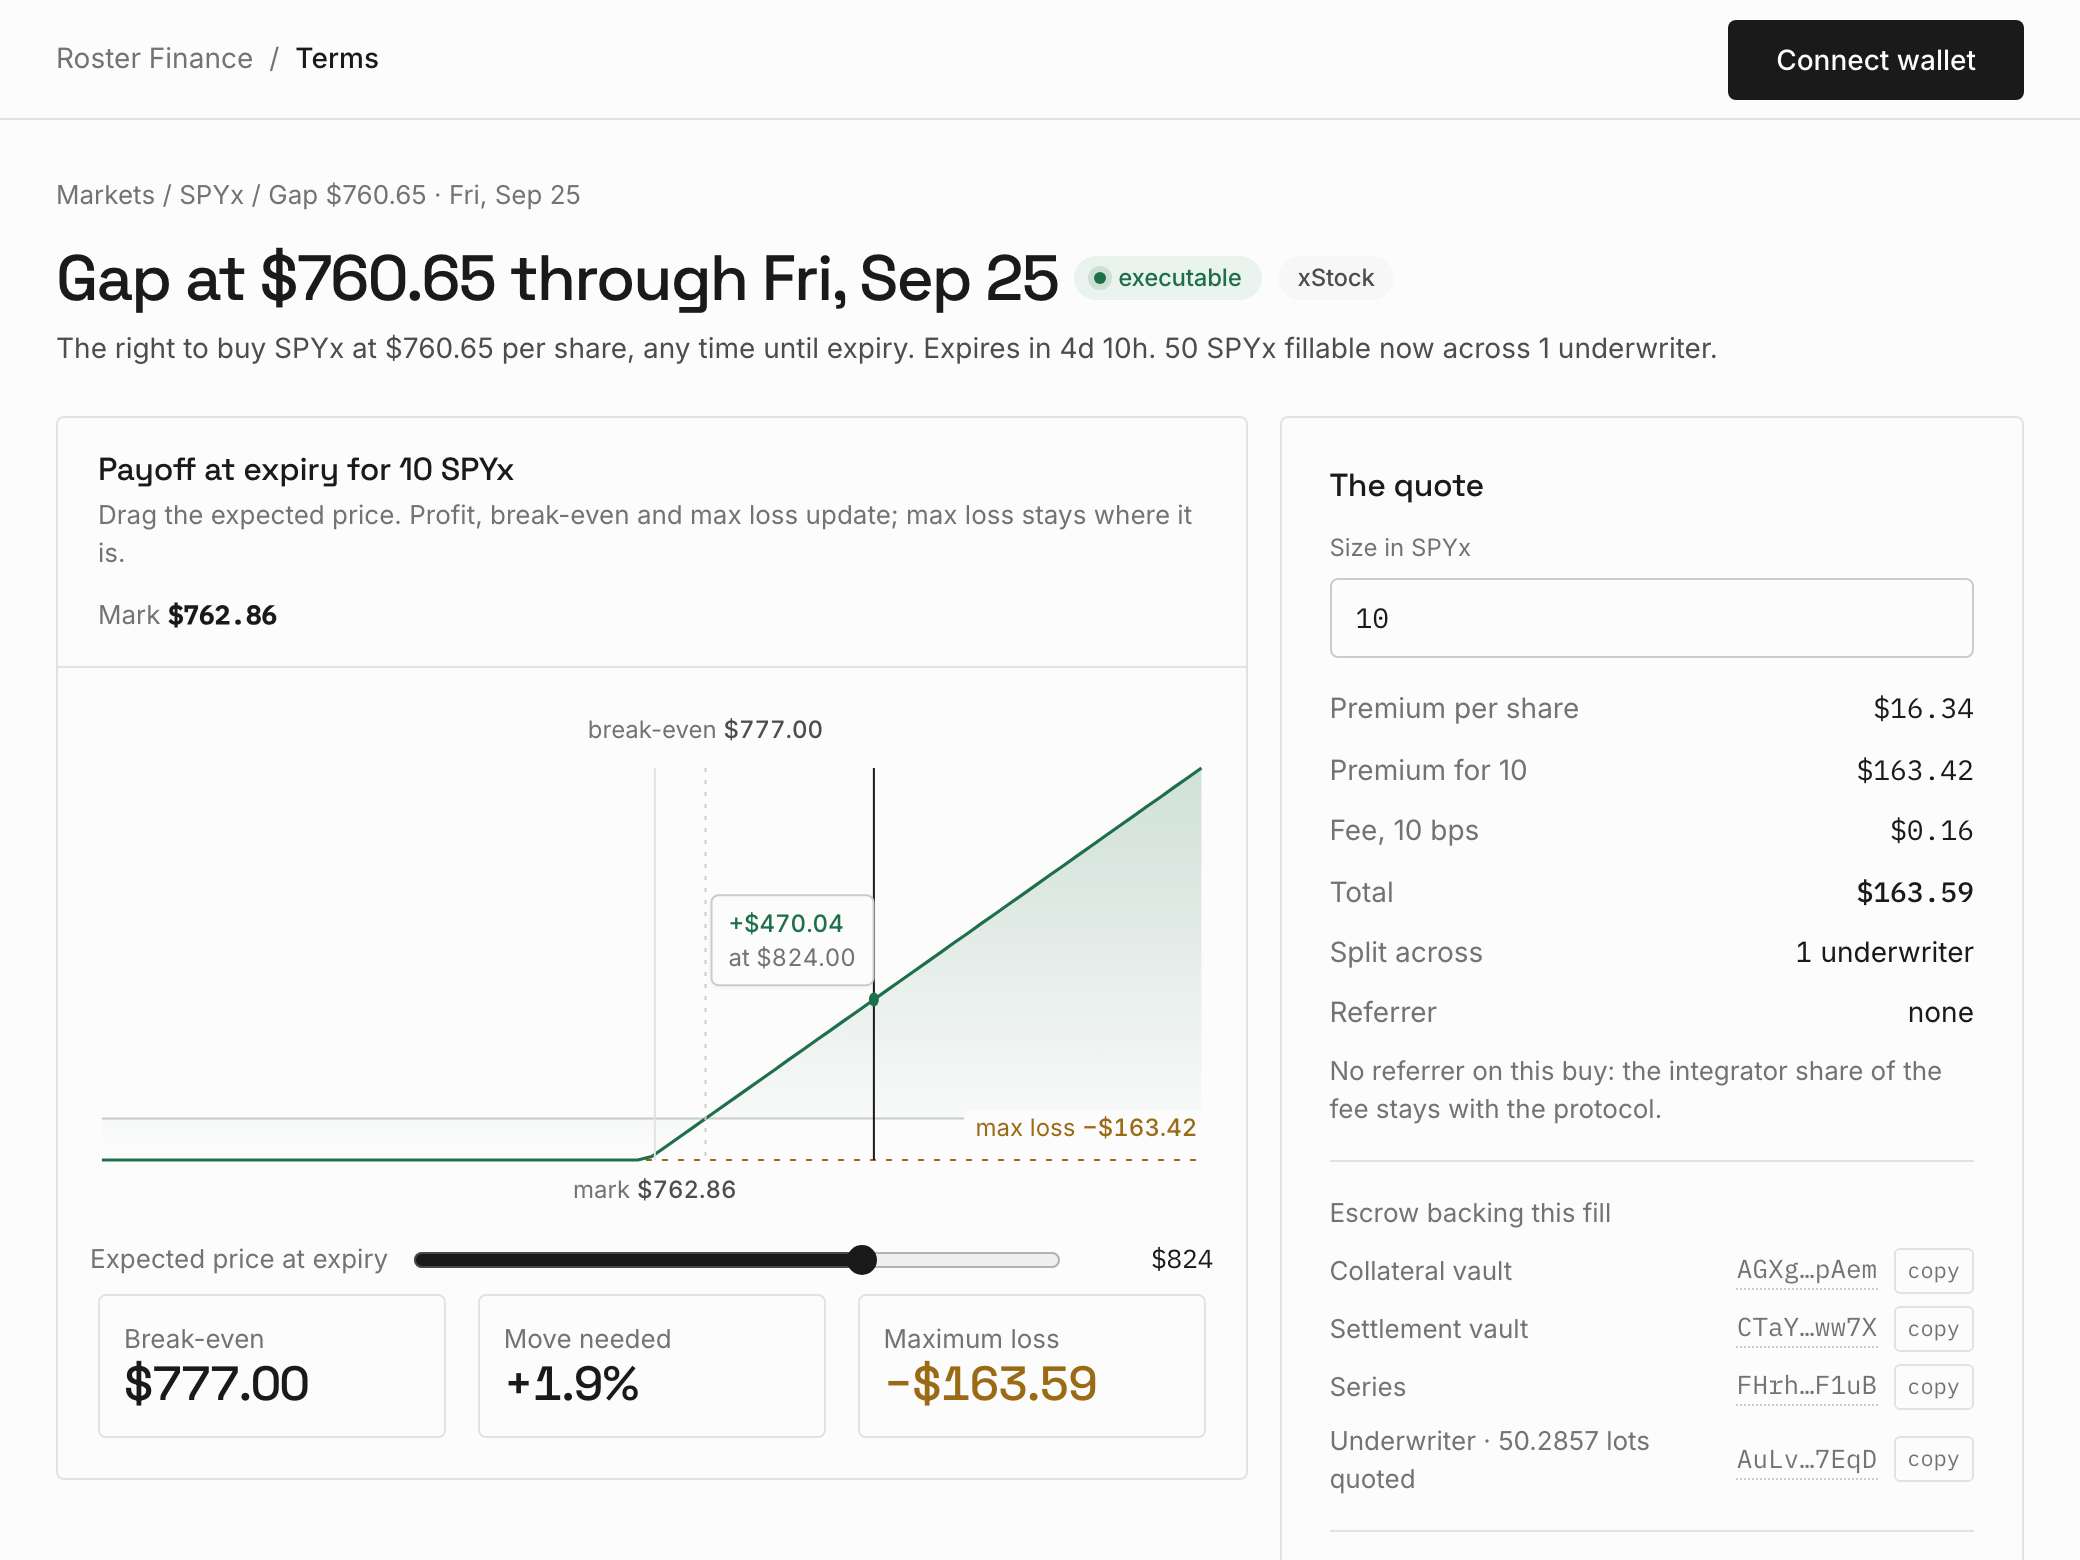
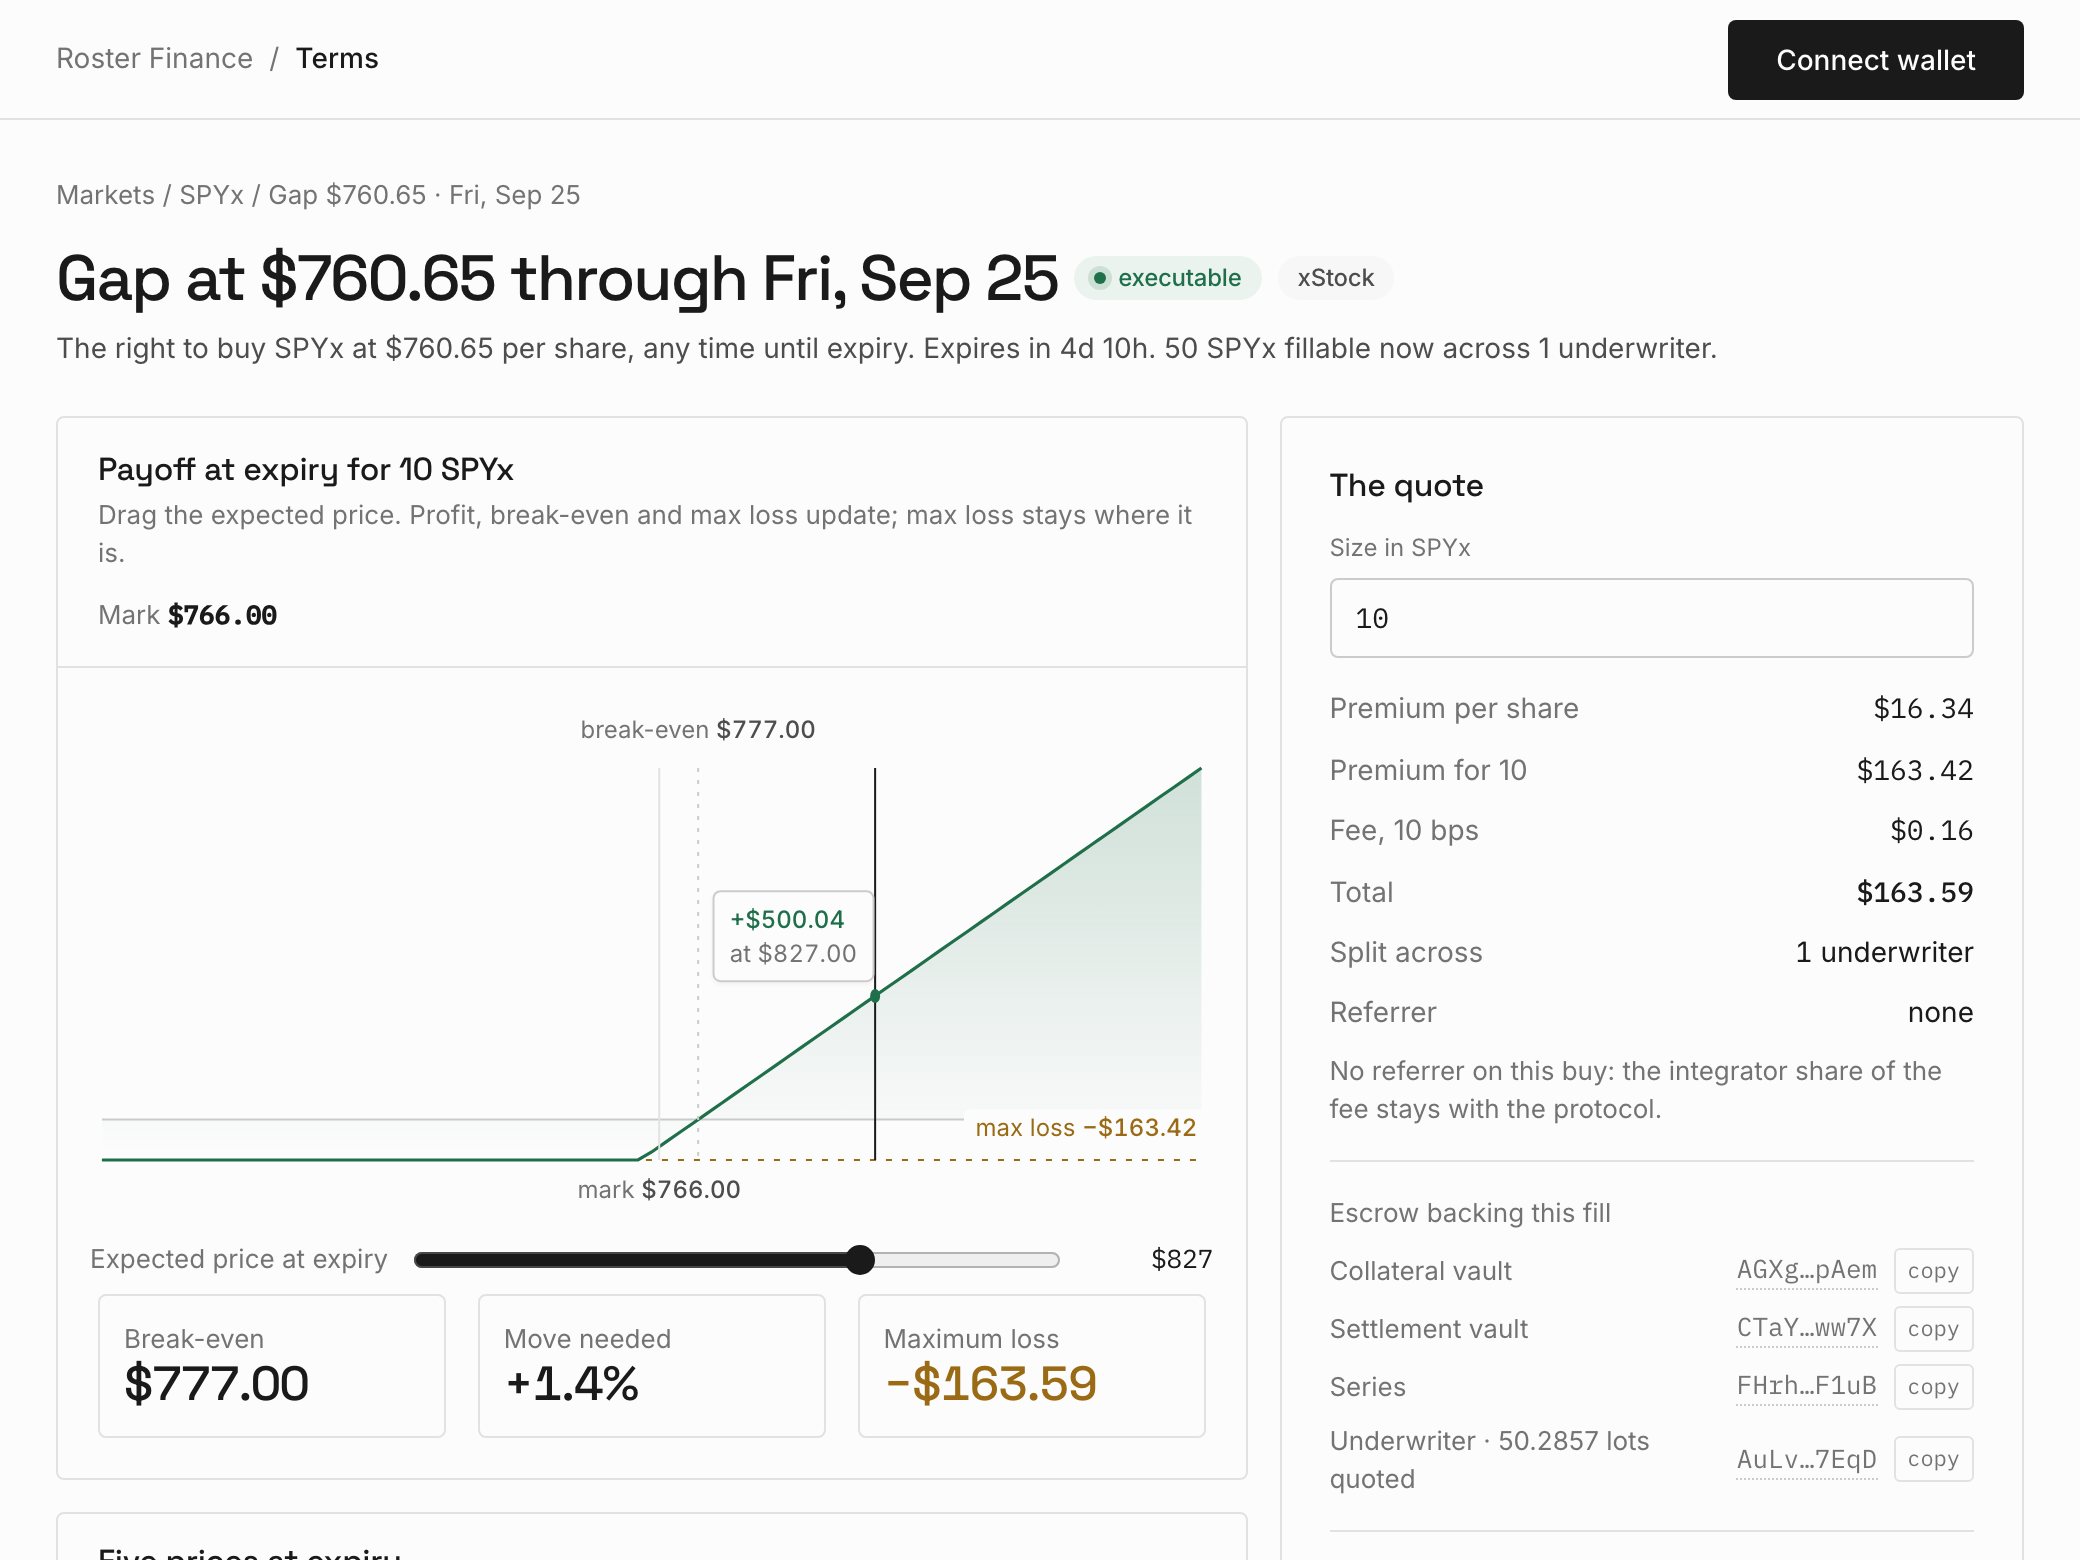
Act: five prices at expiry in words and what happens next sit under the payoff; the quote stays in view

diff --git a/apps/web/src/app/(app)/trade/[term]/page.tsx b/apps/web/src/app/(app)/trade/[term]/page.tsx
@@ -11,7 +11,7 @@ import { TxStatus } from "@/components/tx-status";
 import { Address, Badge, ErrorState, KV, Loading } from "@/components/ui";
 import { useCluster, explorerUrl } from "@/lib/cluster";
 import { usd, usdK, usdSmart, dayLabel, countdown } from "@/lib/format";
-import { breakEven, costOf, DEFAULT_SIZE, maxLoss, moveNeeded, parseTermId, productName } from "@/lib/model";
+import { breakEven, buyerPnl, costOf, DEFAULT_SIZE, maxLoss, moveNeeded, parseTermId, productName } from "@/lib/model";
 import { useTransaction } from "@/lib/tx";
 import { useRoster } from "@/lib/use-roster";
 
@@ -79,6 +79,7 @@ function ActInner({ id }: { id: string }) {
       </div>
 
       <div className="grid-2 split-left">
+        <div style={{ display: "grid", gap: 16, alignContent: "start" }}>
         <div className="card">
           <div className="flex items-center justify-between gap-3 flex-wrap" style={{ padding: "16px 20px", borderBottom: "1px solid var(--line)" }}>
             <div>
@@ -100,7 +101,37 @@ function ActInner({ id }: { id: string }) {
           </div>
         </div>
 
-        <div style={{ display: "grid", gap: 16, alignContent: "start" }}>
+        <div className="card">
+          <div style={{ padding: "14px 20px", borderBottom: "1px solid var(--line)" }}>
+            <div className="h6">Five prices at expiry</div>
+            <div className="small muted" style={{ marginTop: 2 }}>Your result on {size} {u.symbol} at each, net of the premium and fee, and what it means in words.</div>
+          </div>
+          <table className="table">
+            <thead><tr><th>{u.symbol} at expiry</th><th className="num">Your result</th><th className="hide-sm">Which means</th></tr></thead>
+            <tbody>
+              {[-0.2, -0.1, 0, 0.1, 0.2].map((d) => {
+                const px = u.mark * (1 + d);
+                const v = ask === null ? null : buyerPnl(t.side, t.strike, ask, size, px) - (c.fee ?? 0);
+                const itm = t.side === "call" ? px > t.strike : px < t.strike;
+                return (
+                  <tr key={d}>
+                    <td className="nowrap"><span className="mono">${usd(px)}</span> <span className="small muted">({d === 0 ? "mark" : `${d > 0 ? "+" : "−"}${Math.abs(d * 100).toFixed(0)}%`})</span></td>
+                    <td className={`num mono ${v === null ? "muted" : v < 0 ? "down" : v > 0 ? "up" : ""}`}>{v === null ? "n/a" : v === 0 ? "0" : `${v < 0 ? "−" : "+"}$${usdSmart(Math.abs(v))}`}</td>
+                    <td className="small muted hide-sm">{itm ? (t.side === "call" ? `buy ${size} ${u.symbol} at $${usdK(t.strike)}, worth $${usdK(px)}` : `sell ${size} ${u.symbol} at $${usdK(t.strike)} while it trades at $${usdK(px)}`) : "expires unused; the premium is the whole loss"}</td>
+                  </tr>
+                );
+              })}
+            </tbody>
+          </table>
+        </div>
+
+        <div className="card pad">
+          <div className="h6">What happens next</div>
+          <p className="body-sm" style={{ margin: "6px 0 0" }}>The position token lands in your wallet and appears under Positions with its mark, its countdown and exactly what exercising requires: {t.side === "call" ? `pay $${usdSmart(t.strike * size)} USDC, receive ${size} ${u.symbol}` : `deliver ${size} ${u.symbol}, receive $${usdSmart(t.strike * size)} USDC`}. A fill can be partial when the quoted size is not all there any more; you pay only for what filled.</p>
+        </div>
+        </div>
+
+        <div className="act-quote" style={{ display: "grid", gap: 16, alignContent: "start" }}>
           <div className="card pad">
             <div className="h6">The quote</div>
             <label className="lbl" style={{ marginTop: 12 }}>Size in {u.symbol}</label>
@@ -141,10 +172,6 @@ function ActInner({ id }: { id: string }) {
             <TxStatus state={tx.state} onRetry={() => { tx.reset(); reload(true); }} doneHref="/positions" doneLabel="See it under Positions" />
             <p className="note" style={{ marginTop: 12 }}>Contracts can expire worthless. Maximum loss is the premium plus fees. {t.side === "call" ? "Exercising requires paying the strike in USDC." : "Exercising requires delivering the tokens."} One transaction; the wallet signs, the app submits.</p>
             {market && market.feeBps > 0 ? <div className="msg" role="status" style={{ marginTop: 10 }} data-testid="fee-note">This mint charges a {(market.feeBps / 100).toFixed(2)}% transfer fee, and it is the holder&apos;s on both sides. {t.side === "call" ? <>On exercise you pay the full strike and receive {size} {u.symbol} less that fee, about {(size * (1 - market.feeBps / 10_000)).toFixed(4)} {u.symbol}.</> : <>On exercise you deliver {size} {u.symbol} plus the fee on top, about {(size / (1 - market.feeBps / 10_000)).toFixed(4)} {u.symbol}, so exactly {size} arrives for the writers, and you receive the full strike.</>} The premium already prices it in.</div> : null}
-          </div>
-          <div className="card pad">
-            <div className="h6">What happens next</div>
-            <p className="body-sm" style={{ margin: "6px 0 0" }}>The position token lands in your wallet and appears under Positions with its mark, its countdown and exactly what exercising requires: {t.side === "call" ? `pay $${usdSmart(t.strike * size)} USDC, receive ${size} ${u.symbol}` : `deliver ${size} ${u.symbol}, receive $${usdSmart(t.strike * size)} USDC`}. A fill can be partial when the quoted size is not all there any more; you pay only for what filled.</p>
           </div>
         </div>
       </div>

diff --git a/apps/web/src/app/globals.css b/apps/web/src/app/globals.css
@@ -1110,3 +1110,5 @@ a.chip:hover { border-color: var(--line-strong); color: var(--ink); }
 .wadd-item em { font-style: normal; font-size: 13px; color: var(--ink); padding-top: 8px; border-top: 1px solid var(--line); }
 .wadd-item i { font-style: normal; font-size: 12px; color: var(--slate); }
 @media (max-width: 1100px) { .wadd-grid { grid-template-columns: minmax(0, 1fr); } .wadd-item { border-right: 0; border-bottom: 1px solid var(--line); } .wadd-item:last-child { border-bottom: 0; } }
+/* The quote follows the reader down the Act page. */
+@media (min-width: 1024px) { .act-quote { position: sticky; top: 76px; } }
